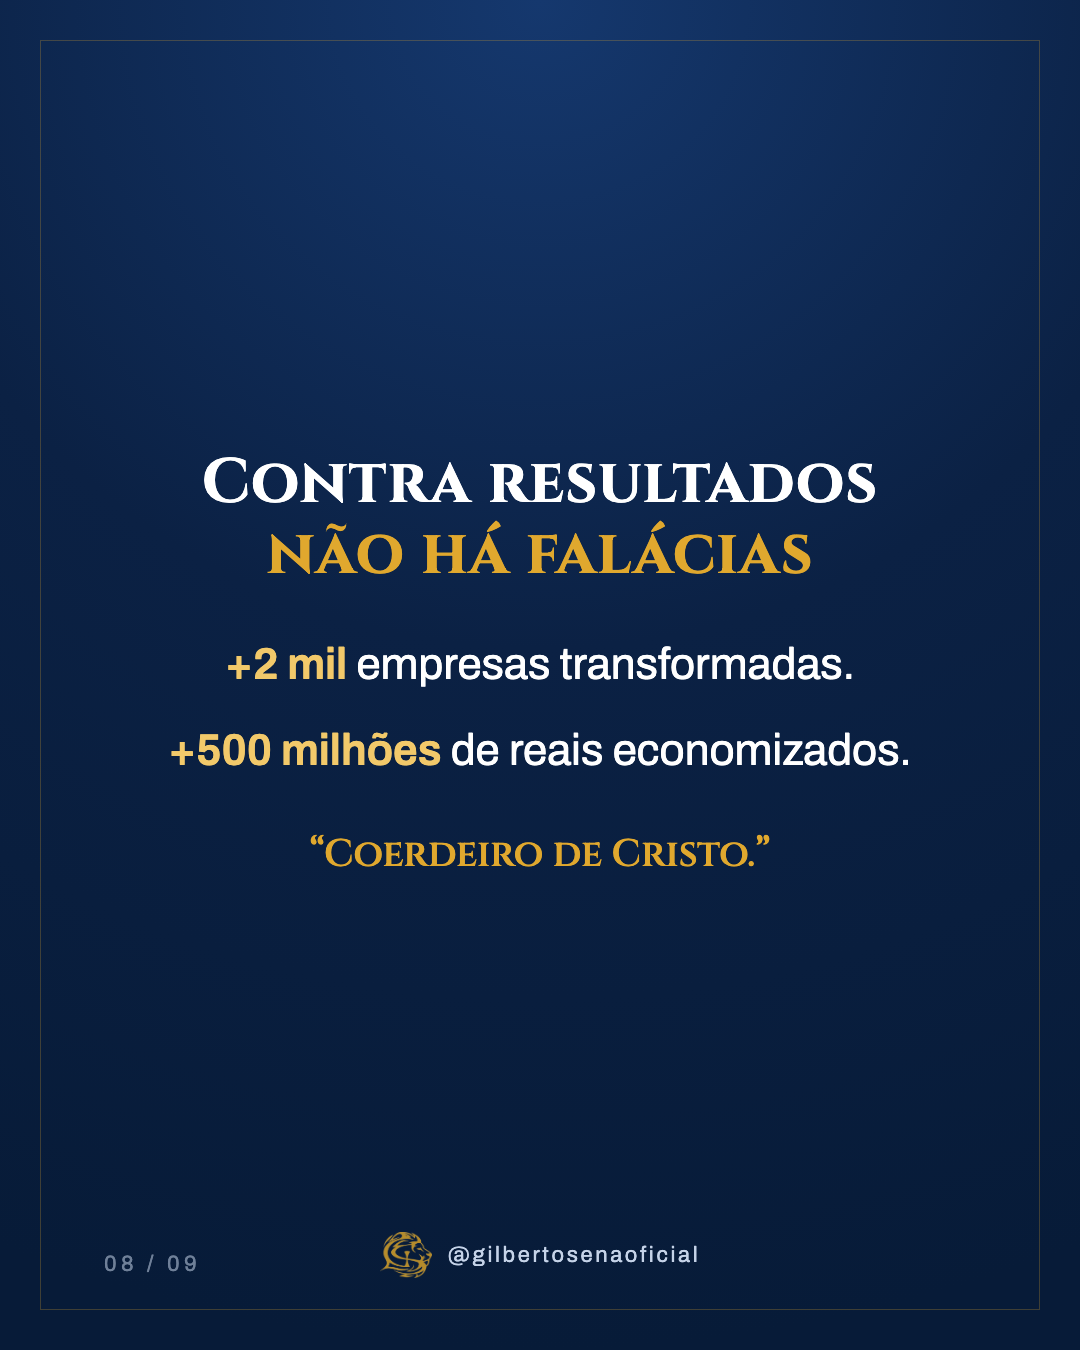
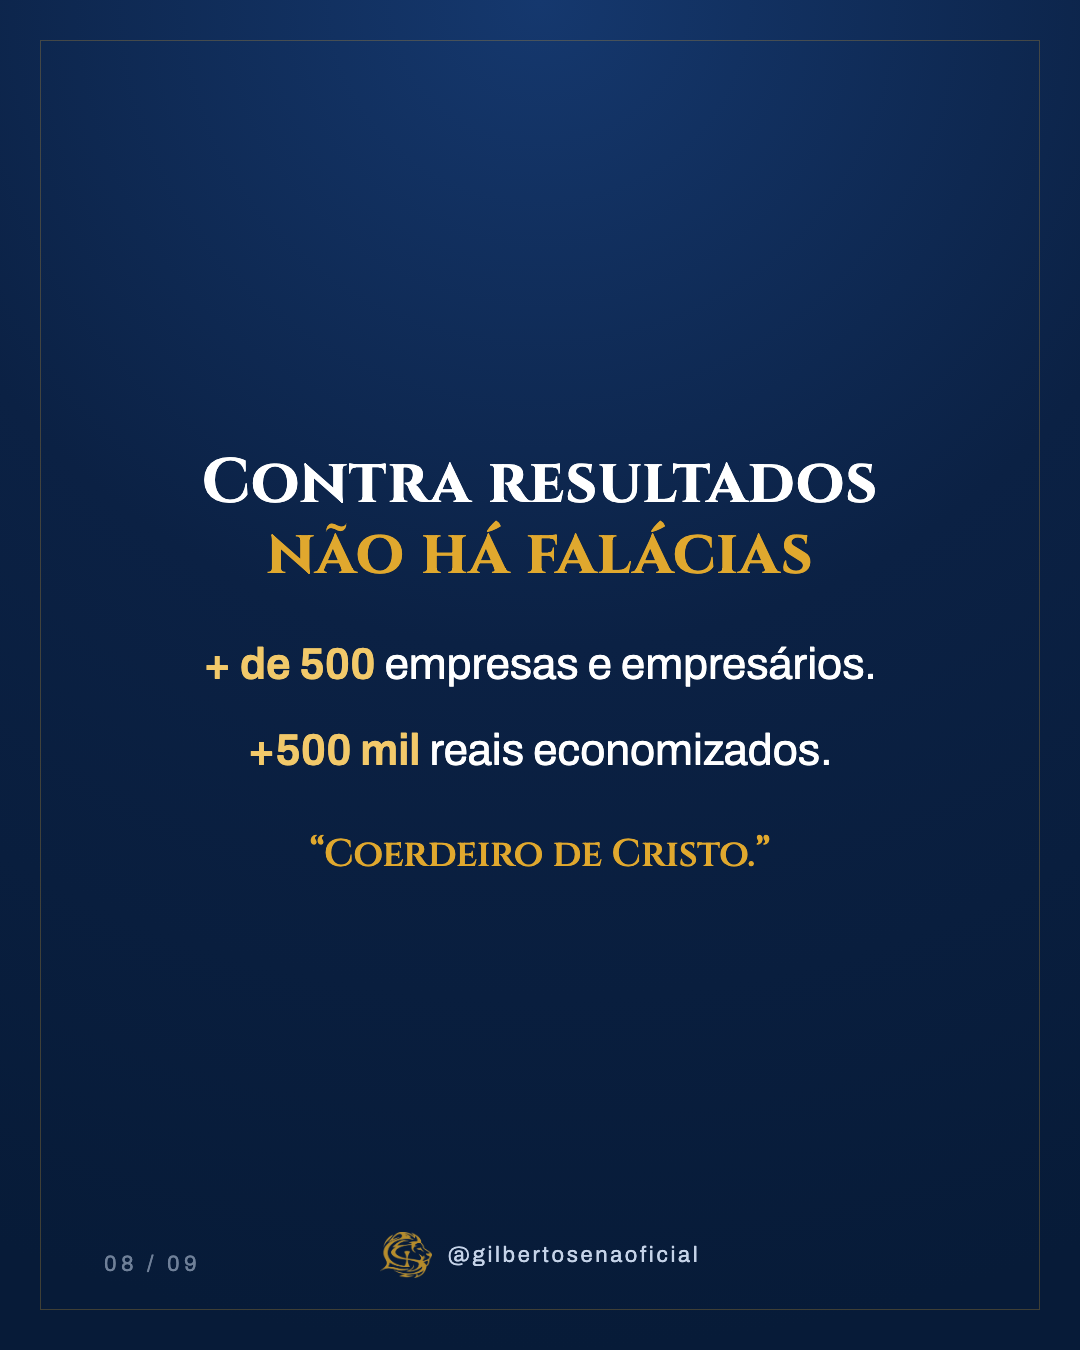
Carrossel: numeros do card 08 corrigidos por ele
De "+2 mil empresas transformadas" pra "+ de 500 empresas e empresarios", e de
"+500 milhoes de reais economizados" pra "+500 mil reais economizados".

CONFLITO ABERTO, anotado no README: o _memoria/posicionamento.md traz como
prova mais forte dele "+R$ 500 milhoes economizados em impostos · +2.000
empresas recuperadas". Entre 500 mil e 500 milhoes ha mil vezes de diferenca.

Apliquei o que ele mandou, porque o numero e dele, mas um dos dois documentos
esta errado e o posicionamento continua dizendo outra coisa ate ele decidir.

Changed region(s): [[0.1528, 0.4667, 0.825, 0.5911]]

diff --git a/saidas/carrossel-quem-e-gilberto-2026-10-06/carrossel.html b/saidas/carrossel-quem-e-gilberto-2026-10-06/carrossel.html
@@ -152,9 +152,9 @@ const CARDS = [
 
  {n:"08", classe:"g1",
   titulo:'Contra resultados<span class="ouro">não há falácias</span>',
-  html:`<p style="font-size:44px;line-height:1.35"><b>+2 mil</b> empresas
-        transformadas.</p>
-        <p style="font-size:44px;line-height:1.35"><b>+500 milhões</b> de reais
+  html:`<p style="font-size:44px;line-height:1.35"><b>+ de 500</b> empresas e
+        empresários.</p>
+        <p style="font-size:44px;line-height:1.35"><b>+500 mil</b> reais
         economizados.</p>
         <p class="destaque" style="font-family:Cinzel,serif;font-size:38px;
         margin-top:46px">“Coerdeiro de Cristo.”</p>`},

diff --git a/saidas/carrossel-quem-e-gilberto-2026-10-06/README.md b/saidas/carrossel-quem-e-gilberto-2026-10-06/README.md
@@ -29,6 +29,20 @@ aparece só como "plataforma digital do Grupo Sena", porque o próprio
 repositório traz o projeto como "a detalhar". **Se ele disser em uma frase o
 que o Hub faz, a linha fica específica.**
 
+## Números do card 08, e um conflito aberto
+
+Ele corrigiu em 06/out/2026 para **+ de 500 empresas e empresários** e
+**+500 mil reais economizados**.
+
+**Isso conflita com o que está registrado.** O
+`_memoria/posicionamento.md` traz, como prova mais forte dele, *"+R$ 500
+milhões economizados em impostos · +2.000 empresas recuperadas"*. Entre
+500 mil e 500 milhões há mil vezes de diferença.
+
+Apliquei o que ele mandou, porque o número é dele. Mas um dos dois
+documentos está errado, e enquanto isso não for decidido o
+`posicionamento.md` continua dizendo outra coisa.
+
 ## Uma coisa a conferir com ele
 
 O card 04 repete o que estava no carrossel original: *"Formado em Gestão

diff --git a/saidas/carrossel-quem-e-gilberto-2026-10-06/legenda.md b/saidas/carrossel-quem-e-gilberto-2026-10-06/legenda.md
@@ -4,9 +4,9 @@
 
 Já fui motoboy. Já vendi cachorro-quente.
 
-Hoje eu ensino empresário a tirar a empresa do roxo, e já são mais de duas mil
-delas. Mas o caminho entre uma coisa e outra ninguém vê, e é dele que esse
-carrossel fala.
+Hoje eu ensino empresário a tirar a empresa do roxo, e já passaram mais de
+quinhentos por aqui. Mas o caminho entre uma coisa e outra ninguém vê, e é
+dele que esse carrossel fala.
 
 Tem quem ache que autoridade é postura. Eu acho que é lastro.
 
